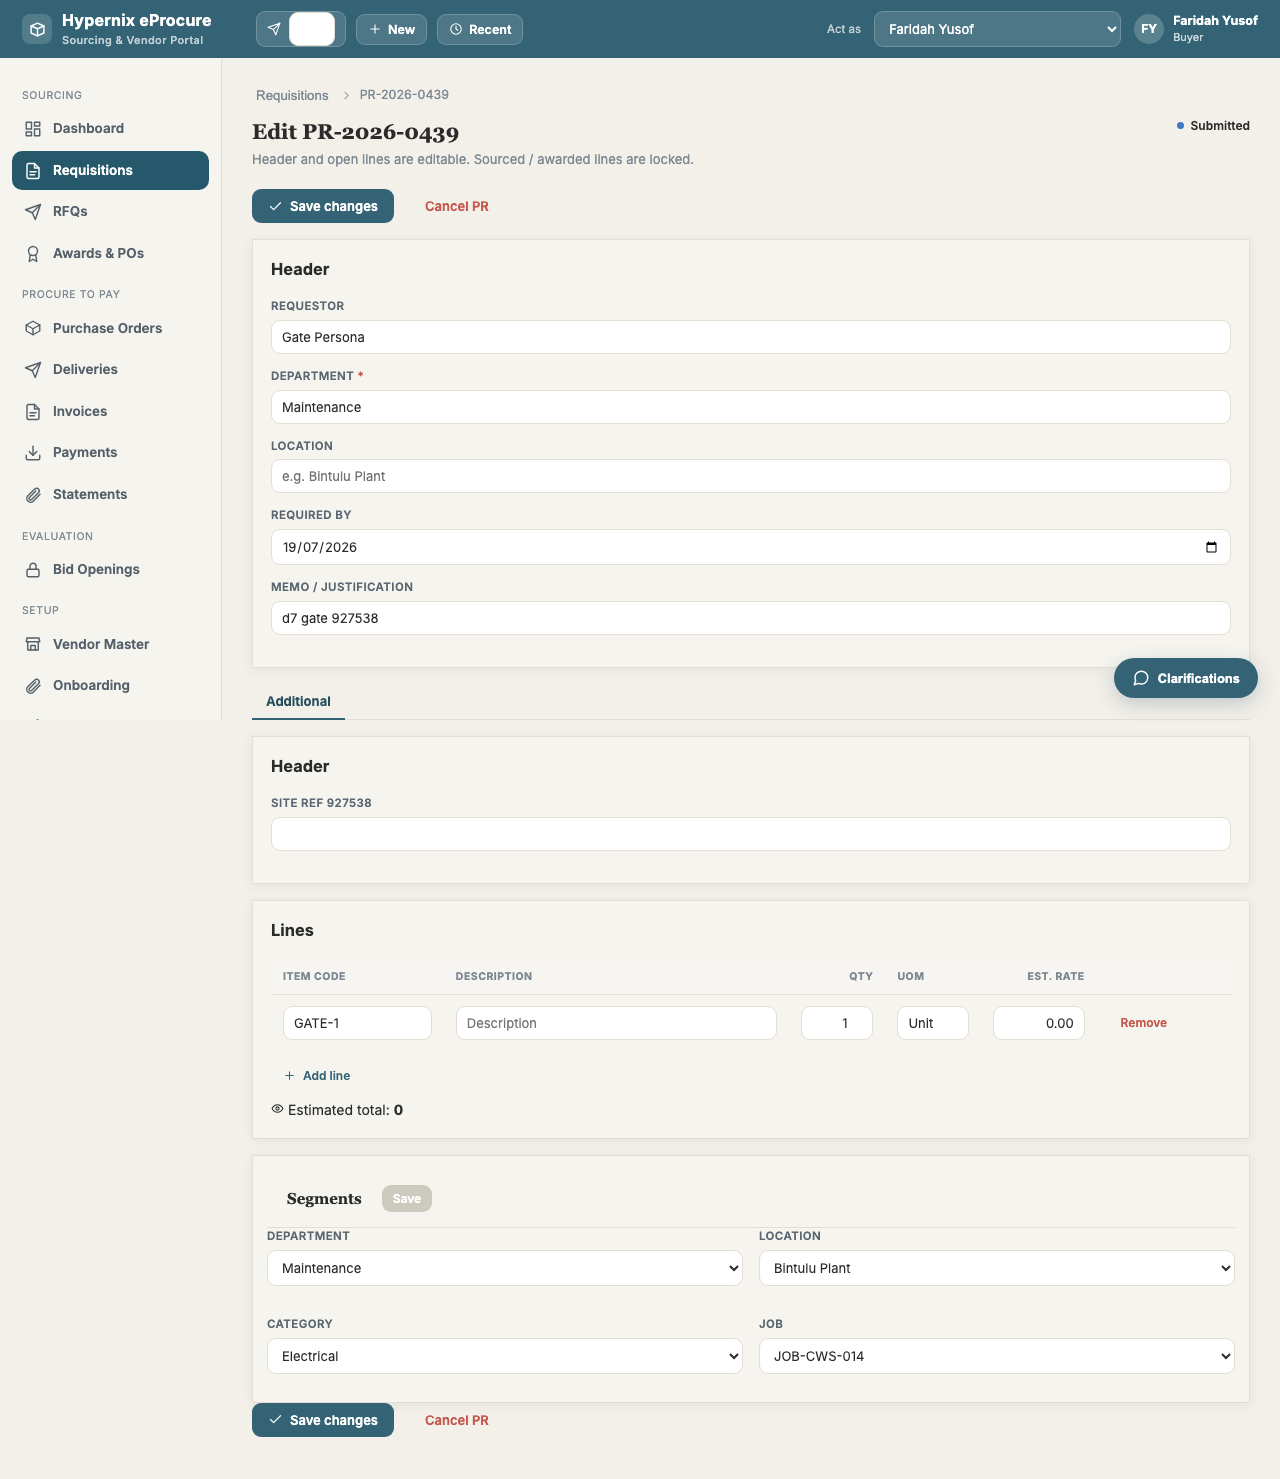
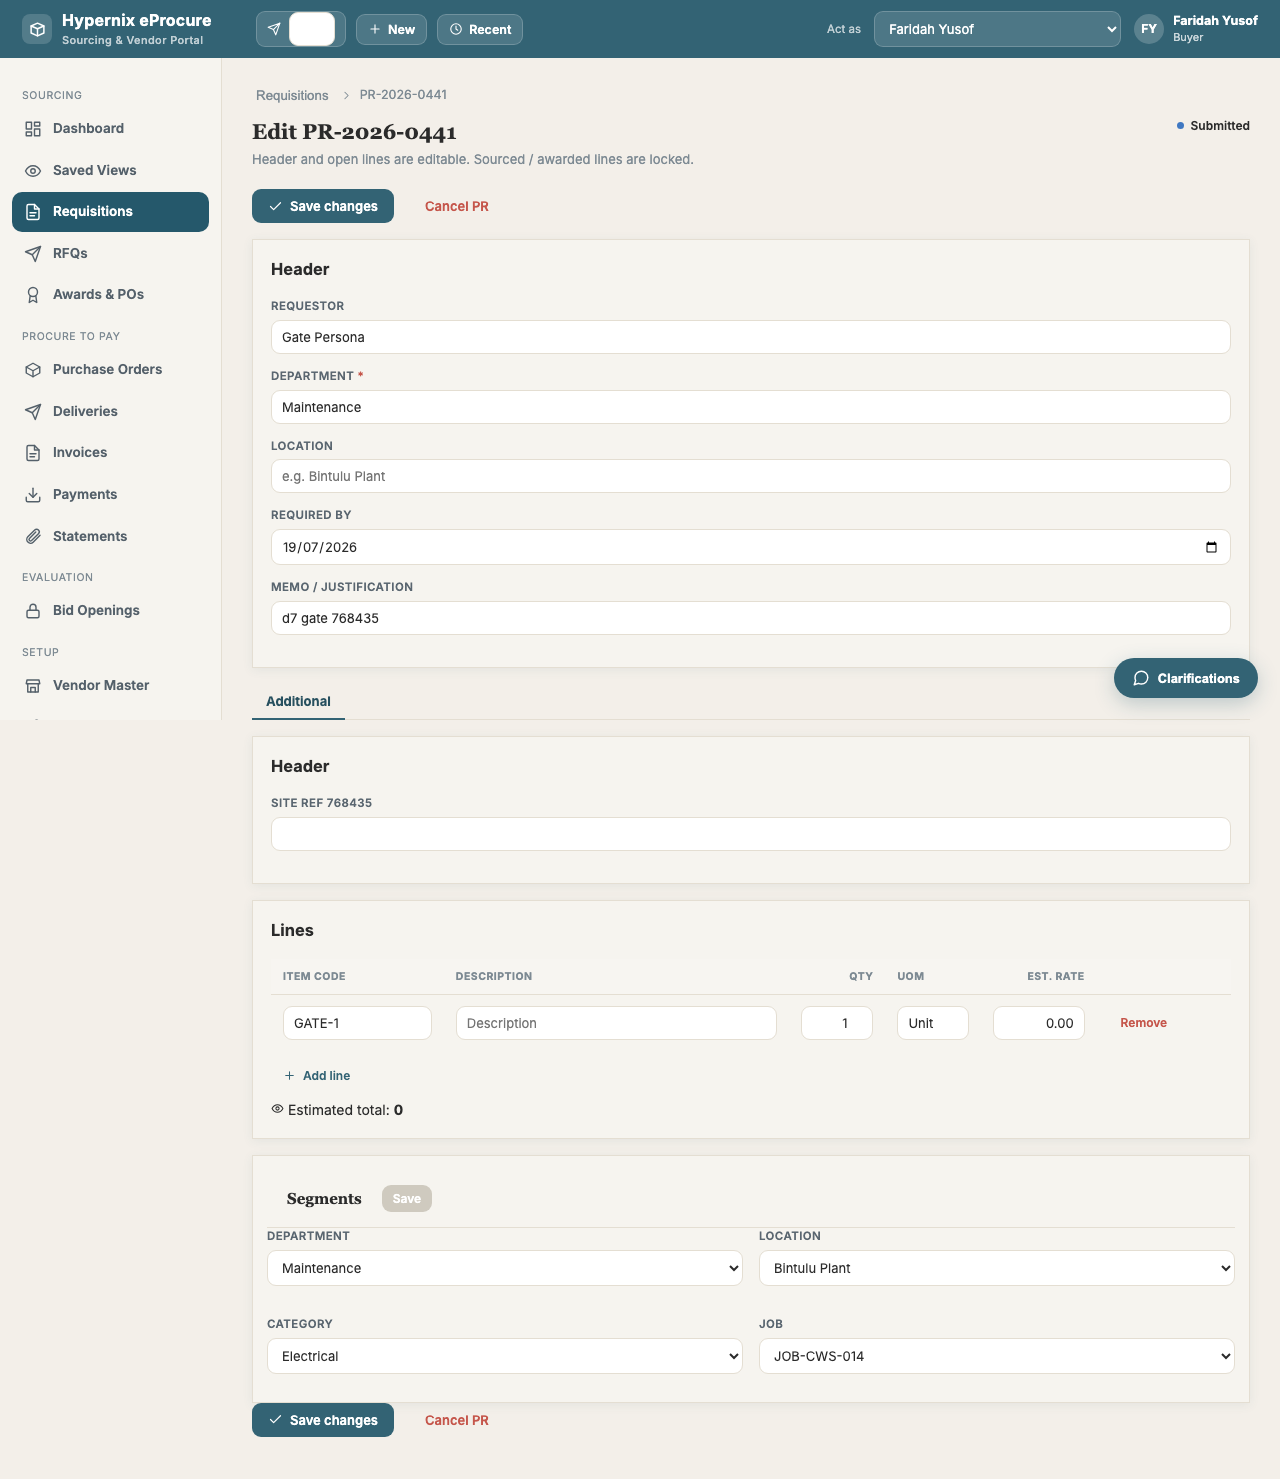
d7.5 CLOSING GATE — 09-journeys: the operator's journey, one persona, one unbroken run
- e2e-audit/tests/09-journeys.spec.ts (run-stamped, self-cleaning): the
  buyer opens Saved Views HOME -> creates 'PRs pending approval'
  (HeaderStatus Eq Submitted) with criteria, no list screen involved ->
  Personalize: adds it as a Reminder AND pins a KPI from the same view ->
  the dashboard shows BOTH live and AGREEING with the API count -> clicks
  the reminder -> Requisitions opens with the view SELECTED and exactly
  the view's rows (the id-intersection mount) -> opens a PR -> the D7
  role form renders with her custom field on its admin-defined subtab.
  One view: list + reminder + KPI + form, one unbroken NetSuite-grade run
- admin preconditions (cf def + Buyer role form) staged via API; the
  journey itself is pure buyer UI
- screenshots D75-journey-1-home / 2-view / 3-dashboard / 4-list /
  5-roleform committed
- spec lessons pinned in-code: options in a closed select are never
  'visible' (waitFor attached); 'Open' must be exact or it matches the
  sidebar's 'Bid Openings'
- FULL CRAWL AT CLOSE: 48/48 (47 + the journey; all seven permanent gates)

Changed region(s): [[0.0, 0.0933, 0.1875, 0.4665], [0.25, 0.5287, 0.2812, 0.5598], [0.25, 0.4043, 0.2812, 0.4354]]

diff --git a/e2e-audit/tests/09-journeys.spec.ts b/e2e-audit/tests/09-journeys.spec.ts
@@ -1,0 +1,119 @@
+import { test, expect } from '@playwright/test'
+import { goAs, shot } from './helpers'
+
+// D7.5 CLOSING GATE — the operator's full journey, ONE persona (the buyer), ONE unbroken
+// run: Saved Views home → create "PRs pending approval" with criteria → Personalize: add
+// it as a Reminder AND pin a KPI from it → the dashboard shows both LIVE → click the
+// reminder → the list opens with the view selected (the id-intersection mount) → open a
+// PR → the D7 role form renders with her custom field on its admin-defined subtab.
+// Admin preconditions (the D7 machinery: a cf def + a Buyer role form placing it on a
+// subtab) are staged via API; the JOURNEY itself is the buyer's unbroken UI run.
+// Run-stamped + self-cleaning.
+
+const API = 'http://localhost:5260'
+const STAMP = Date.now().toString().slice(-6)
+const VIEW_NAME = `PRs pending approval (${STAMP})`
+const KPI_TITLE = `Pending PRs (${STAMP})`
+const CF_LABEL = `Budget Ref ${STAMP}`
+const CF_CODE = `cf_budget_ref_${STAMP}`
+const FORM_NAME = `Buyer PR Form ${STAMP}`
+const ADMIN = { 'X-Demo-User': 'u_admin' }
+const BUYER = { 'X-Demo-User': 'u_faridah' }
+const JSON_H = { 'Content-Type': 'application/json' }
+
+test('the journey: home → view → reminder + KPI → dashboard live → filtered list → PR → role form', async ({ page, request }) => {
+  test.setTimeout(180_000)
+  page.on('dialog', (d) => void d.accept())
+
+  // ---- Preconditions (admin, API): the D7 role form with a custom field on a subtab ----
+  expect((await request.post(`${API}/api/custom-fields`, {
+    headers: { ...ADMIN, ...JSON_H },
+    data: { label: CF_LABEL, recordType: 'Requisition', dataType: 'Text', customListId: null, required: false, helpText: '', sort: 0 },
+  })).ok()).toBeTruthy()
+  const forms = await (await request.get(`${API}/api/entry-forms?recordType=Requisition`, { headers: ADMIN })).json()
+  const standard = forms.find((f: { isSystem: boolean }) => f.isSystem)
+  const roleForm = await (await request.post(`${API}/api/entry-forms`, {
+    headers: { ...ADMIN, ...JSON_H },
+    data: {
+      name: FORM_NAME, recordType: 'Requisition',
+      fields: [...standard.fields, {
+        fieldKey: CF_CODE, subtab: 'Additional', fieldGroup: 'Extra', sort: 10, displayType: 'Normal',
+        requiredOnForm: false, defaultValue: null, sourceFieldKey: null, fullWidth: false, label: null, placeholder: null,
+      }],
+    },
+  })).json()
+  expect((await request.put(`${API}/api/entry-forms/${roleForm.id}/roles`, {
+    headers: { ...ADMIN, ...JSON_H }, data: { roles: ['Buyer'] },
+  })).ok()).toBeTruthy()
+
+  // ---- 1. The buyer opens Saved Views HOME and creates the view — no list screen involved ----
+  await goAs(page, 'u_faridah', 'views')
+  await page.waitForTimeout(1500)
+  await shot(page, 'D75-journey-1-home')
+  await page.getByRole('button', { name: /New view/ }).click()
+  // Two 'Record type' controls exist here (the home's facet + the modal's select) — take the modal's.
+  await page.getByLabel('Record type').last().selectOption('Requisition')
+  await page.getByRole('button', { name: 'Choose fields…' }).click()
+  await page.getByLabel('View name').fill(VIEW_NAME)
+  await page.getByRole('button', { name: 'Add criterion' }).click()
+  await page.getByLabel('Field').selectOption('HeaderStatus')
+  await page.getByLabel('Operator').selectOption('Eq')
+  await page.getByLabel('PR status', { exact: true }).selectOption('Submitted')
+  await shot(page, 'D75-journey-2-view')
+  await page.getByRole('button', { name: 'Save view' }).click()
+  await page.waitForTimeout(1200)
+  await expect(page.getByText(VIEW_NAME)).toBeVisible()             // it lands in the home list
+
+  // ---- 2. Personalize: the SAME view becomes a Reminder AND a KPI ----
+  await goAs(page, 'u_faridah', 'dashboard')
+  await page.waitForTimeout(1500)
+  await page.getByRole('button', { name: 'Add reminder' }).click()
+  await page.getByLabel('Record type').selectOption('Requisition')
+  await page.getByRole('option', { name: VIEW_NAME }).waitFor({ state: 'attached' })   // options in a closed select are never 'visible'
+  await page.getByLabel('Saved view').selectOption({ label: VIEW_NAME })
+  await page.getByRole('button', { name: 'Add reminder' }).last().click()
+  await page.waitForTimeout(1200)
+
+  await page.getByRole('button', { name: 'Add KPI' }).first().click()
+  await page.getByLabel('KPI title').fill(KPI_TITLE)
+  await page.getByLabel('Record type').selectOption('Requisition')
+  await page.getByLabel('Saved view').selectOption({ label: VIEW_NAME })
+  await page.getByLabel('Function').selectOption('count')
+  await page.getByRole('button', { name: 'Add KPI' }).last().click()
+  await page.waitForTimeout(1500)
+
+  // ---- 3. The dashboard shows BOTH, live — and they agree with the API count ----
+  const views = await (await request.get(`${API}/api/views?recordType=Requisition`, { headers: BUYER })).json()
+  const view = views.find((v: { name: string }) => v.name === VIEW_NAME)
+  const agg = await (await request.get(`${API}/api/views/${view.id}/aggregate?fn=count`, { headers: BUYER })).json()
+  const count = Number(agg.value)
+  expect(count).toBeGreaterThan(0)
+  const reminderBtn = page.getByRole('button', { name: new RegExp(`${VIEW_NAME.replace(/[()]/g, '\\$&')}.*${count}`) })
+  await expect(reminderBtn).toBeVisible()                           // live count on the reminder
+  const kpi = page.locator('section', { hasText: KPI_TITLE })
+  await expect(kpi.getByText(String(count), { exact: true })).toBeVisible()   // the KPI agrees
+  await shot(page, 'D75-journey-3-dashboard')
+
+  // ---- 4. Click the reminder → the list opens WITH the view selected (id-intersection) ----
+  await reminderBtn.click()
+  await page.waitForTimeout(1800)
+  await expect(page.getByRole('combobox', { name: 'Saved view' })).toHaveValue(view.id)
+  const rows = page.locator('table tbody tr')
+  await expect(rows).toHaveCount(count)                             // exactly the view's rows
+  await shot(page, 'D75-journey-4-list')
+
+  // ---- 5. Open a PR → the D7 role form: her custom field on its admin subtab ----
+  await page.locator('table').getByRole('button', { name: 'Open', exact: true }).first().click()   // exact: 'Open' must not match the sidebar's 'Bid Openings'
+  await page.waitForTimeout(1500)
+  await page.getByRole('button', { name: 'Additional' }).click()    // the admin-defined subtab
+  await expect(page.getByLabel(CF_LABEL)).toBeVisible()
+  await shot(page, 'D75-journey-5-roleform')
+
+  // ---- cleanup: dashboard reset, view deleted, role form deleted, cf def deleted ----
+  expect((await request.delete(`${API}/api/dashboards/mine`, { headers: BUYER })).status()).toBe(204)
+  expect((await request.delete(`${API}/api/views/${view.id}`, { headers: BUYER })).status()).toBe(204)
+  expect((await request.delete(`${API}/api/entry-forms/${roleForm.id}`, { headers: ADMIN })).status()).toBe(204)
+  const defs = await (await request.get(`${API}/api/custom-fields?recordType=Requisition`, { headers: ADMIN })).json()
+  const cf = defs.find((d: { code: string }) => d.code === CF_CODE)
+  expect((await request.delete(`${API}/api/custom-fields/${cf.id}`, { headers: ADMIN })).status()).toBe(204)
+})
